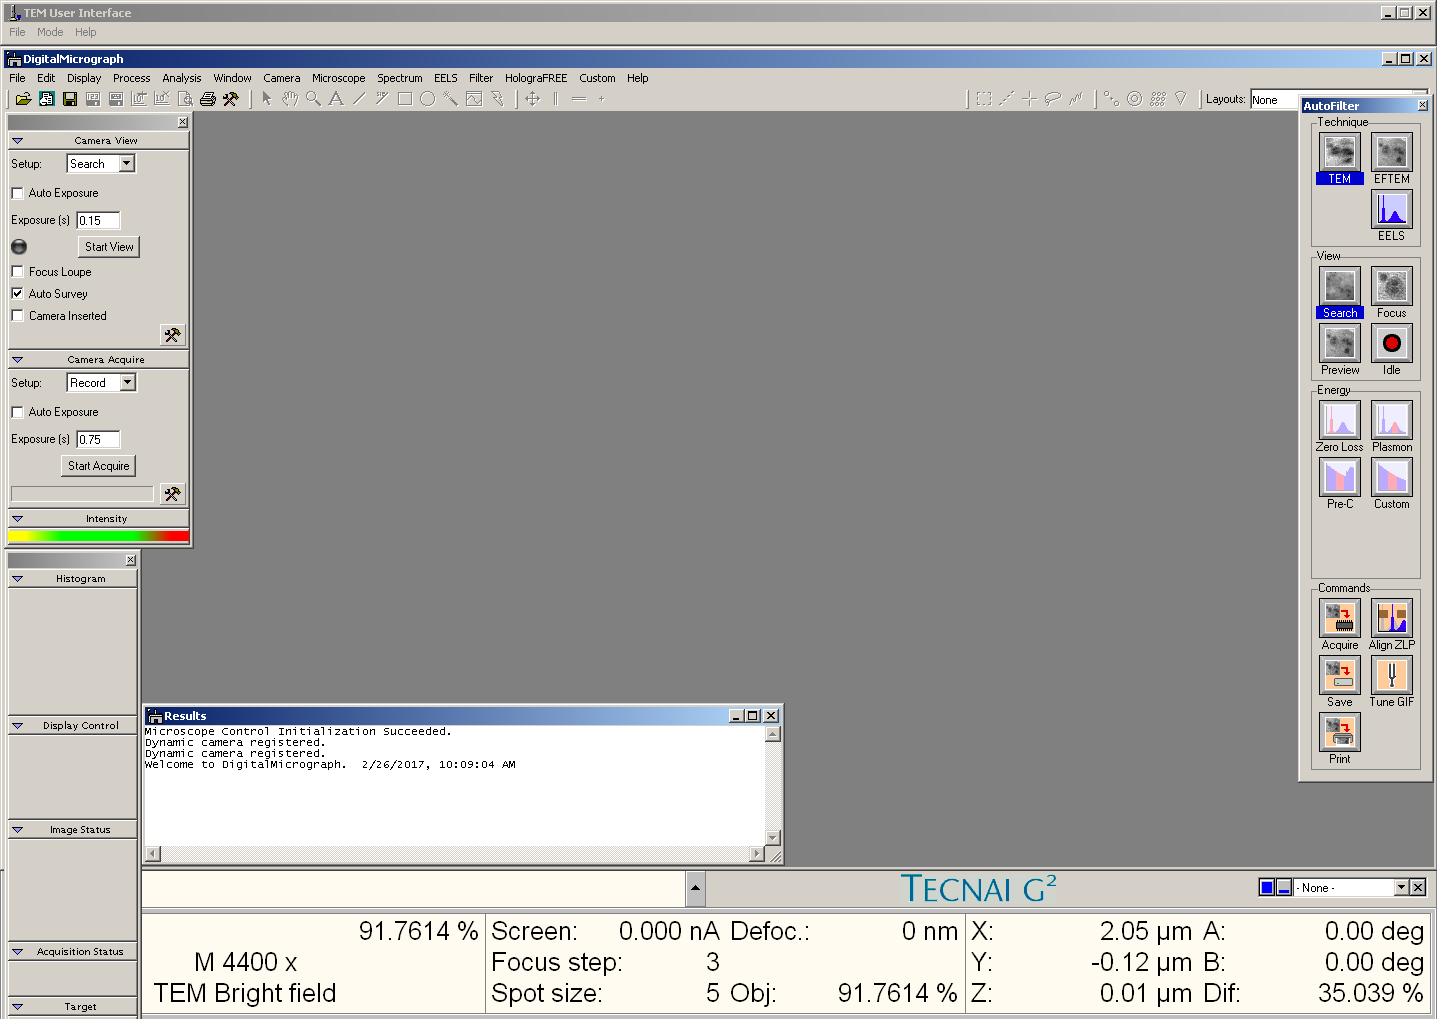
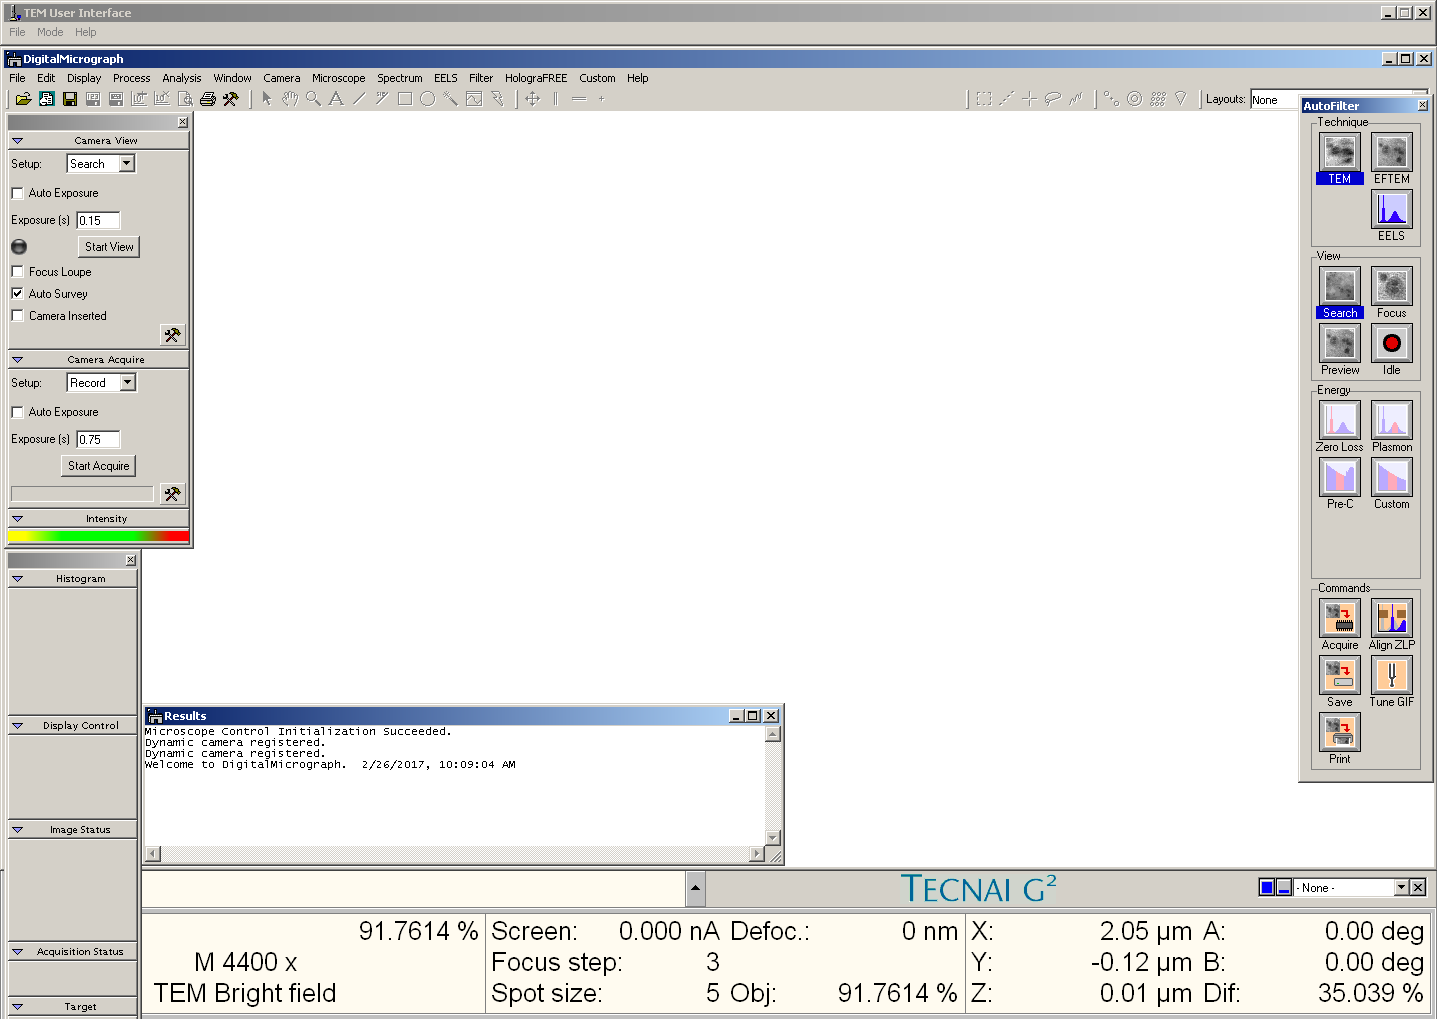
refactored main tem images to work, added startview to open the box

diff --git a/index.htm b/index.htm
@@ -40,6 +40,7 @@
             <area shape='rect' id='openbutton' coords='13,91,34,105' />
             <area shape='rect' id='mainscreendropdown' coords='1293,878,1409,895' />
             <area shape='rect' id='closedrop' coords='1410,879,1425,895' />
+            <area shape='rect' id='startview' coords='78,236,139,257' />
           </map>
         </td>
       </tr>
@@ -186,8 +187,8 @@
       <img src='./public/img/openbox.png' />
     </div>
 
-    <img src='./public/img/mask.svg' id='mask'/>
-    <img src='./public/img/32.png' id='testimage' />
+    <img src='./public/img/mask.svg' id='temmask'/>
+    <img src='./public/img/32.png' id='temimage' />
 
     <!--library imports-->
     <script src='./public/js/jquery-3.2.1.min.js'></script>

diff --git a/public/js/onclicks/startmenu.js b/public/js/onclicks/startmenu.js
@@ -20,10 +20,14 @@ let startMenu = function(){
 
   $('#temuistart').on('click', function(event){
     $('#mainimage').attr('src', './public/img/tia.png');
+    $('#temmask').show();
+    $('#temimage').show();
   });
 
   $('#micrographstart').on('click', function(event){
     $('#mainimage').attr('src', './public/img/mainscreen.png');
+    $('#temmask').hide();
+    $('#temimage').hide();
   });
 
   $('#filtercontrol').on('click', function(event){

diff --git a/public/css/mapped.css b/public/css/mapped.css
@@ -11,6 +11,7 @@
     border: 0;
     margin: 0;
     border-collapse: collapse;
+    background-color: grey;
 }
 
 body{
@@ -281,7 +282,7 @@ body{
   line-height: 1em;
 }
 
-#testimage{
+#temimage{
   position: absolute;
   z-index: -2;
   height: 150vh;
@@ -291,7 +292,7 @@ body{
 }
 
 
-#mask{
+#temmask{
   position: absolute;
   top: -155vh;
   left: -148vw;

diff --git a/public/js/onclicks/mainscreen.js b/public/js/onclicks/mainscreen.js
@@ -56,4 +56,8 @@ let mainScreen = function(){
   $('#filtercontrolclosebox').on('click', function(event){
     $('#filtercontroldiv').hide();
   });
+
+  $('#startview').on('click', function(event){
+    $('#openbox').show();
+  })
 };

diff --git a/public/js/app.js b/public/js/app.js
@@ -27,6 +27,8 @@ let hideBatch = function(){
   $('#leftcoldarkfield').hide();
   $('#filtercontroldiv').hide();
   $('#openbox').hide(); 
+  $('#temmask').hide();
+  $('#temimage').hide();
 };
 
 //from rcontroller roller
